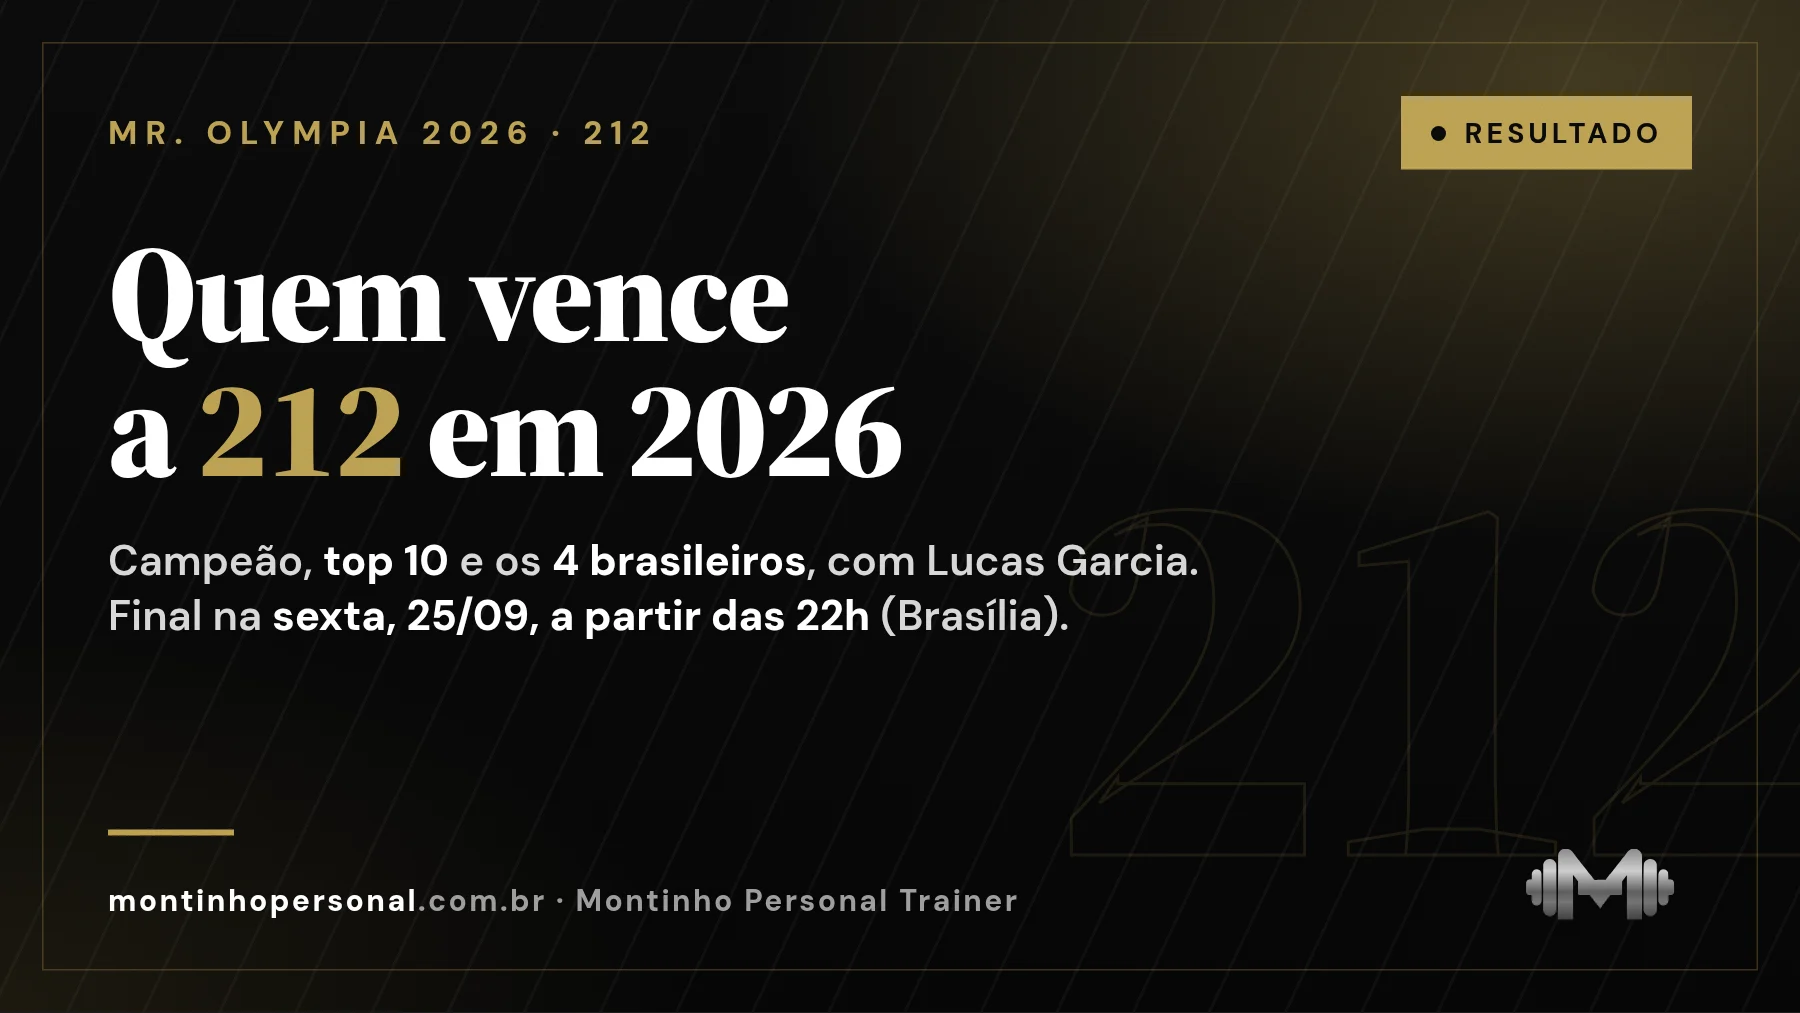
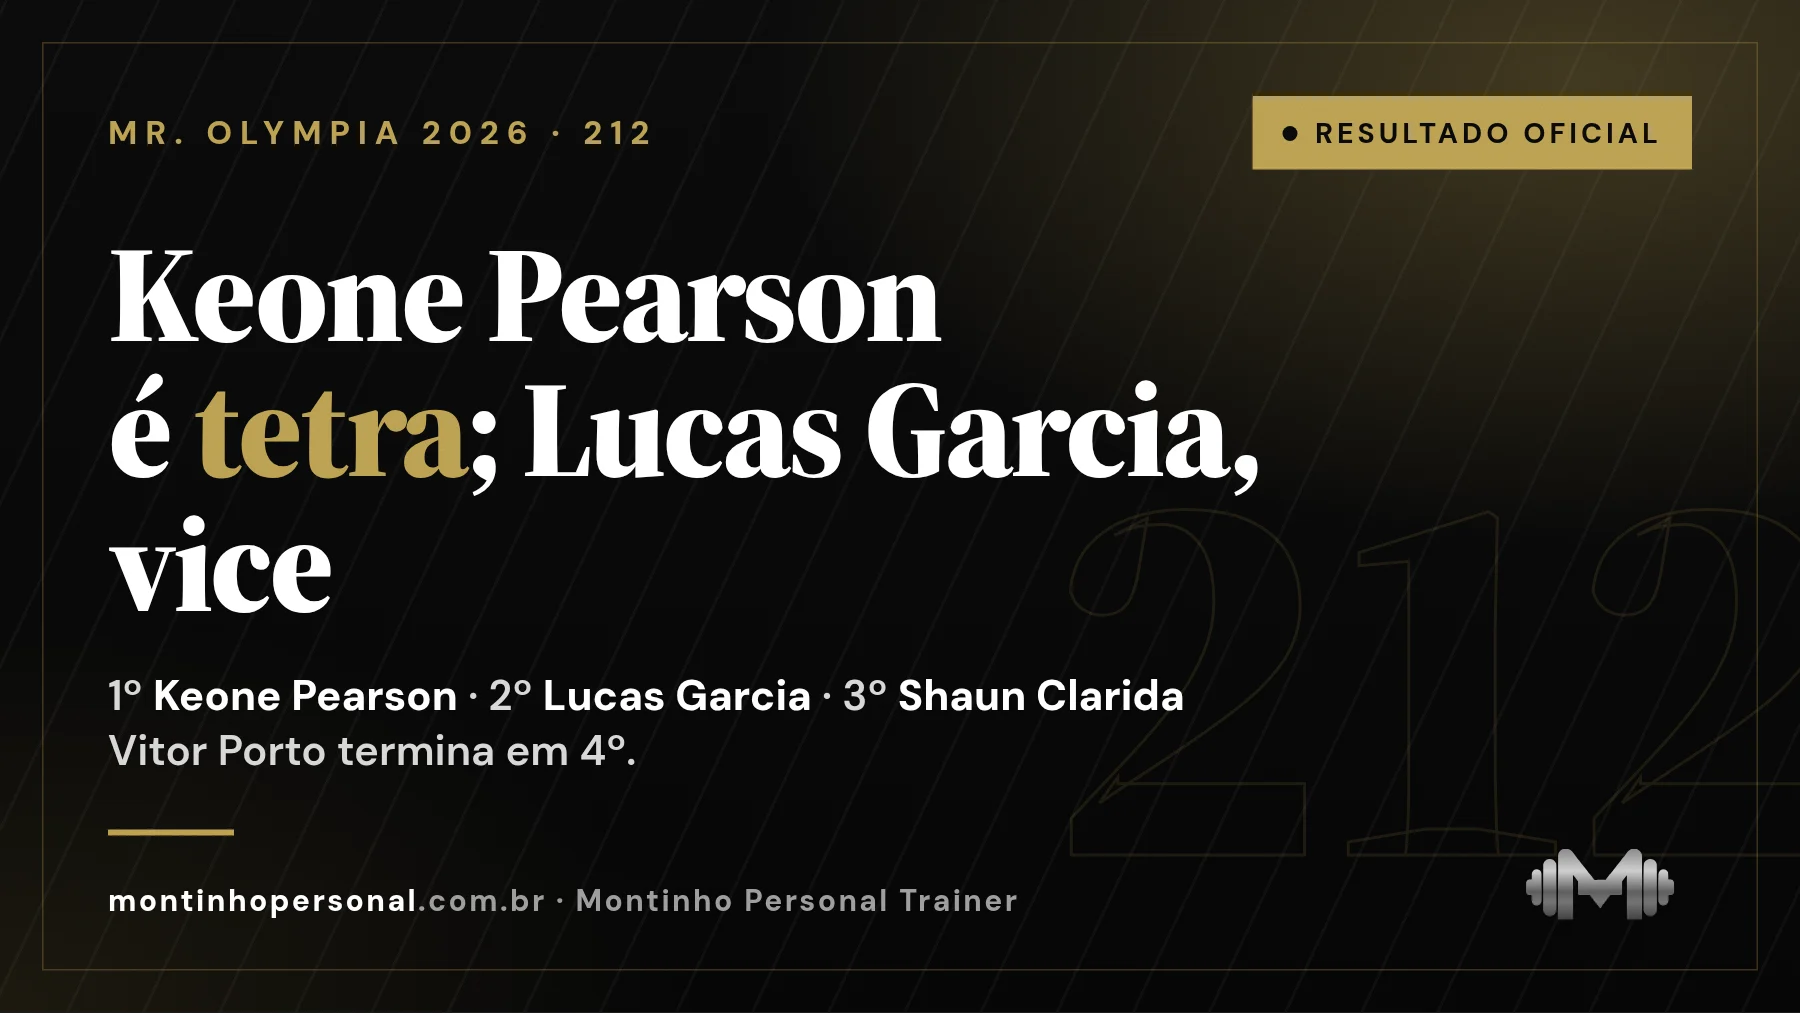
Olympia 2026: 212 top 5 (Lucas Garcia vice, Vitor Porto 4º) e Ms. Olympia (Leyvina 3ª)
Claude-Session: https://claude.ai/code/session_01FouRqAub4iiTyoNafYmiNy

diff --git a/lib/olympia-2026.ts b/lib/olympia-2026.ts
@@ -232,7 +232,7 @@ ${FONTES}`,
     readTime: "5 min",
     author: AUTOR,
     tags: ["Mr. Olympia 2026", "campeões", "resultados", "fisiculturismo", "Las Vegas"],
-    content: `<blockquote><p><strong>Já decididas: Women's Physique, 212 e Figure.</strong> As outras entram assim que o resultado oficial for confirmado. Última verificação: 26 de setembro de 2026, 0h (Brasília).</p></blockquote>
+    content: `<blockquote><p><strong>Já decididas: Women's Physique, 212, Figure e Ms. Olympia.</strong> As outras entram assim que o resultado oficial for confirmado. Última verificação: 26 de setembro de 2026, 2h (Brasília).</p></blockquote>
 <p>O Mr. Olympia 2026 acontece de 24 a 27 de setembro em Las Vegas, com 322 atletas em 12 categorias — 58 deles brasileiros. As finais são <strong>nesta sexta (25) a partir das 22h</strong> e <strong>no sábado (26) a partir das 23h</strong>, no horário de Brasília. Esta página reúne todos os campeões e é atualizada categoria por categoria, à medida que os resultados oficiais saem.</p>
 ${CAPA("quem-ganhou-mr-olympia-2026", "Capa: quem ganhou o Mr. Olympia 2026 — todos os campeões, categoria por categoria: Open, Classic Physique, Wellness, 212, Men's Physique, Bikini e mais")}
 
@@ -243,7 +243,7 @@ ${CAPA("quem-ganhou-mr-olympia-2026", "Capa: quem ganhou o Mr. Olympia 2026 — 
 <tr><td>212</td><td>Sex 25/09, 22h</td><td><strong>Keone Pearson (EUA)</strong></td><td>Keone Pearson (EUA)</td><td><a href="/blog/resultado-212-mr-olympia-2026">Ver resultado</a></td></tr>
 <tr><td>Figure</td><td>Sex 25/09, 22h</td><td><strong>Lola Montez</strong></td><td>Rhea Gayle (GBR)</td><td>Nesta página</td></tr>
 <tr><td>Women's Physique</td><td>Sex 25/09, 22h</td><td><strong>Natalia Abraham Coelho (EUA)</strong></td><td>Natalia Abraham Coelho (EUA)</td><td><a href="/blog/resultado-womens-physique-olympia-2026">Ver resultado</a></td></tr>
-<tr><td>Ms. Olympia</td><td>Sex 25/09, 22h</td><td>A definir</td><td>Andrea Shaw (EUA)</td><td>Nesta página</td></tr>
+<tr><td>Ms. Olympia</td><td>Sex 25/09, 22h</td><td><strong>Andrea Shaw (EUA)</strong></td><td>Andrea Shaw (EUA)</td><td>Nesta página</td></tr>
 <tr><td>Fitness</td><td>Sáb 26/09, 23h</td><td>A definir</td><td>Michelle Fredua-Mensah (GBR)</td><td>Nesta página</td></tr>
 <tr><td>Men's Physique</td><td>Sáb 26/09, 23h</td><td>A definir</td><td>Ryan Terry (GBR)</td><td><a href="/blog/resultado-mens-physique-olympia-2026">Ver resultado</a></td></tr>
 <tr><td>Bikini</td><td>Sáb 26/09, 23h</td><td>A definir</td><td>Maureen Blanquisco (PHI)</td><td><a href="/blog/resultado-bikini-olympia-2026">Ver resultado</a></td></tr>
@@ -481,12 +481,12 @@ ${FONTES}`,
   /* ───────────────── 7. RESULTADO 212 ───────────────── */
   {
     slug: "resultado-212-mr-olympia-2026",
-    title: "Keone Pearson é tetracampeão da 212 no Mr. Olympia 2026; veja os brasileiros",
-    metaTitle: "Resultado 212 Olympia 2026: Keone Pearson Tetra e Lucas Garcia",
+    title: "Keone Pearson é tetracampeão da 212 no Mr. Olympia 2026; Lucas Garcia é vice",
+    metaTitle: "Resultado 212 Olympia 2026: Keone Pearson Tetra; Lucas Garcia Vice",
     metaDescription:
-      "Keone Pearson venceu a 212 do Mr. Olympia 2026, o quarto título seguido. Lucas Garcia e Vitor Porto estiveram entre os finalistas; colocações a confirmar.",
+      "Keone Pearson venceu a 212 do Mr. Olympia 2026, o 4º título seguido. O brasileiro Lucas Garcia foi vice e Vitor Porto ficou em 4º. Veja o top 5.",
     excerpt:
-      "Keone Pearson venceu a 212 do Mr. Olympia 2026 e chegou ao quarto título seguido. Lucas Garcia e Vitor Porto estiveram entre os finalistas.",
+      "Keone Pearson venceu a 212 do Mr. Olympia 2026 e chegou ao quarto título seguido. Lucas Garcia foi vice-campeão e Vitor Porto terminou em 4º.",
     category: "Fisiculturismo",
     tipo: "noticia",
     date: DATA,
@@ -494,25 +494,25 @@ ${FONTES}`,
     readTime: "3 min",
     author: AUTOR,
     tags: ["Mr. Olympia 2026", "212", "Lucas Garcia", "resultado", "fisiculturismo"],
-    content: `<blockquote><p><strong>Campeão oficial definido; a colocação exata dos brasileiros ainda está sendo confirmada.</strong> Última verificação: 26 de setembro de 2026, 0h (Brasília).</p></blockquote>
-<p><strong>Keone Pearson (EUA) venceu a 212 do Mr. Olympia 2026</strong>, na noite de sexta-feira, 25 de setembro, em Las Vegas, e chegou ao quarto título seguido. Os brasileiros <strong>Lucas Garcia</strong> e <strong>Vitor Porto</strong> estiveram entre os finalistas, ao lado de Shaun Clarida e Nihat Kaya. A colocação exata de cada um entra aqui assim que a classificação oficial for confirmada.</p>
-${CAPA("resultado-212-mr-olympia-2026", "Capa: resultado da 212 do Mr. Olympia 2026 — Keone Pearson defende o título e Lucas Garcia lidera os quatro brasileiros; final na sexta às 22h de Brasília")}
+    content: `<blockquote><p><strong>Resultado oficial.</strong> Última verificação: 26 de setembro de 2026, 2h (Brasília).</p></blockquote>
+<p><strong>Keone Pearson (EUA) venceu a 212 do Mr. Olympia 2026</strong>, na noite de sexta-feira, 25 de setembro, em Las Vegas, e chegou ao quarto título seguido. O brasileiro <strong>Lucas Garcia foi vice-campeão</strong>, subindo um degrau em relação a 2025, e <strong>Vitor Porto terminou em 4º</strong>. Shaun Clarida ficou em 3º e Nihat Kaya em 5º.</p>
+${CAPA("resultado-212-mr-olympia-2026", "Capa: Keone Pearson é tetracampeão da 212 no Mr. Olympia 2026; o brasileiro Lucas Garcia é vice, Shaun Clarida é 3º e Vitor Porto 4º")}
 
 <h2 id="resultado">Resultado 212 Olympia 2026</h2>
-<table><thead><tr><th>Posição</th><th>Atleta</th><th>País</th></tr></thead><tbody><tr><td>1º</td><td>Keone Pearson</td><td>EUA</td></tr><tr><td>2º</td><td>A confirmar</td><td>—</td></tr><tr><td>3º</td><td>A confirmar</td><td>—</td></tr><tr><td>4º</td><td>A confirmar</td><td>—</td></tr><tr><td>5º</td><td>A confirmar</td><td>—</td></tr></tbody></table>
-<p><em>Campeão confirmado por CNN Brasil e Fitness Volt. As fontes publicadas até agora divergem sobre a ordem do 2º ao 5º lugar, por isso essas posições ficam em branco até a confirmação.</em></p>
+<table><thead><tr><th>Posição</th><th>Atleta</th><th>País</th></tr></thead><tbody><tr><td>1º</td><td>Keone Pearson</td><td>EUA</td></tr><tr><td>2º</td><td>Lucas Garcia</td><td>Brasil</td></tr><tr><td>3º</td><td>Shaun Clarida</td><td>EUA</td></tr><tr><td>4º</td><td>Vitor Porto</td><td>Brasil</td></tr><tr><td>5º</td><td>Nihat Kaya</td><td>Turquia</td></tr></tbody></table>
+<p><em>Top 5 confirmado por Fitness Volt e NSC Total; campeão também pela CNN Brasil. Do 6º lugar em diante, a classificação entra quando for publicada.</em></p>
 
 <h2>Como ficaram os brasileiros na 212?</h2>
 <table><thead><tr><th>Atleta</th><th>Resultado</th><th>Status</th></tr></thead><tbody>
-<tr><td>Lucas Garcia</td><td>Finalista (posição a confirmar)</td><td>Competiu</td></tr>
-<tr><td>Vitor Porto</td><td>Finalista (posição a confirmar)</td><td>Competiu</td></tr>
+<tr><td>Lucas Garcia</td><td>2º lugar</td><td>Resultado oficial</td></tr>
+<tr><td>Vitor Porto</td><td>4º lugar</td><td>Resultado oficial</td></tr>
 <tr><td>Felipe Moraes</td><td>A confirmar</td><td>Competiu</td></tr>
 <tr><td>Andrey Pereira</td><td>A confirmar</td><td>Competiu</td></tr>
 </tbody></table>
 <p>Os quatro aparecem no roster oficial da IFBB Pro League representando o Brasil (Vitor Porto está inscrito como Vitor Alves Porto de Oliveira). Como foram os brasileiros das outras categorias: <a href="/blog/brasileiros-mr-olympia-2026">brasileiros no Mr. Olympia 2026</a>.</p>
 
 <h2>Em que posição Lucas Garcia ficou?</h2>
-<p><strong>Lucas Garcia esteve entre os finalistas; a posição exata ainda está sendo confirmada</strong> (as primeiras fontes divergem). Paulista, ele chegou como o brasileiro mais bem colocado da categoria: em 2025, na estreia no Olympia, terminou em <strong>terceiro</strong>, atrás de Keone Pearson e Shaun Clarida, com Nihat Kaya (Turquia) em quarto e Courage Opara (EUA) em quinto. A colocação de 2026 entra aqui assim que for confirmada.</p>
+<p><strong>Lucas Garcia foi vice-campeão</strong>, o melhor resultado de um brasileiro na história da 212, igualando o 2º lugar de Eduardo Corrêa em 2014. Levou US$ 20 mil. Paulista, ele chegou como o brasileiro mais bem colocado da categoria: em 2025, na estreia no Olympia, terminou em <strong>terceiro</strong>, atrás de Keone Pearson e Shaun Clarida, com Nihat Kaya (Turquia) em quarto e Courage Opara (EUA) em quinto. Em 2026, subiu para o 2º lugar.</p>
 
 <h2>Quem ganhou a 212 Olympia 2026?</h2>
 <p><strong>Keone Pearson</strong>, que venceu o pose down final e chegou ao quarto título seguido (2023, 2024, 2025 e 2026). Os favoritos antes da final eram:</p>
@@ -551,7 +551,7 @@ ${CTA_MASSA}
 ${FONTES}`,
     faq: [
       { question: "Quem ganhou a 212 do Mr. Olympia 2026?", answer: "Keone Pearson (EUA), que chegou ao quarto título seguido na categoria." },
-      { question: "Em que posição Lucas Garcia ficou na 212?", answer: "Lucas Garcia esteve entre os finalistas de 2026; a posição exata ainda está sendo confirmada. Em 2025, na estreia no Olympia, ele ficou em terceiro." },
+      { question: "Em que posição Lucas Garcia ficou na 212?", answer: "Em segundo: Lucas Garcia foi vice-campeão da 212 no Mr. Olympia 2026, atrás de Keone Pearson. Em 2025, na estreia, tinha ficado em terceiro." },
       { question: "Quantos brasileiros competem na 212 do Olympia 2026?", answer: "Quatro, pelo roster oficial da IFBB Pro League: Lucas Garcia, Vitor Porto, Felipe Moraes e Andrey Pereira." },
       { question: "Qual é o limite de peso da 212?", answer: "212 libras, cerca de 96,2 kg, na pesagem oficial, para qualquer altura." },
     ],

diff --git a/lib/olympia-brasil.ts b/lib/olympia-brasil.ts
@@ -67,7 +67,7 @@ export const CATEGORIAS: CategoriaOlympia[] = [
   { id: "212", nome: "212", dia: "sexta", previas: "sextaPrevias", final: "sextaFinais", artigo: "resultado-212-mr-olympia-2026", temBrasileiro: true, previasConcluidas: true, resultadoOficial: true, campeao: "Keone Pearson" },
   { id: "wellness", nome: "Wellness", dia: "sexta", previas: "sextaPrevias", final: "sextaFinais", artigo: "resultado-wellness-mr-olympia-2026", temBrasileiro: true },
   { id: "womens-physique", nome: "Women's Physique", dia: "sexta", previas: "sextaPrevias", final: "sextaFinais", artigo: "resultado-womens-physique-olympia-2026", temBrasileiro: true, previasConcluidas: true, resultadoOficial: true, campeao: "Natalia Abraham Coelho" },
-  { id: "ms-olympia", nome: "Ms. Olympia", dia: "sexta", previas: "sextaPrevias", final: "sextaFinais", temBrasileiro: true },
+  { id: "ms-olympia", nome: "Ms. Olympia", dia: "sexta", previas: "sextaPrevias", final: "sextaFinais", temBrasileiro: true, previasConcluidas: true, resultadoOficial: true, campeao: "Andrea Shaw" },
   { id: "figure", nome: "Figure", dia: "sexta", previas: "sextaPrevias", final: "sextaFinais", previasConcluidas: true, resultadoOficial: true, campeao: "Lola Montez" },
   // O Open tem as prévias na sessão de sexta à noite e a final no sábado.
   { id: "open", nome: "Open (Mr. Olympia)", dia: "sabado", previas: "sextaFinais", final: "sabadoFinais", artigo: "resultado-mr-olympia-open-2026", temBrasileiro: true },
@@ -193,8 +193,8 @@ export const ATLETAS_BRASIL: AtletaBrasil[] = [
   a("Fábio Júnio", "classic"),
   a("Gabriel Zancanelli", "classic"),
   a("Matheus Menegate", "classic"),
-  a("Lucas Garcia", "212", "Brasil", "3º em 2025"),
-  a("Vitor Porto", "212"),
+  { ...a("Lucas Garcia", "212", "Brasil", "3º em 2025"), resultado: "2º lugar" },
+  { ...a("Vitor Porto", "212"), resultado: "4º lugar" },
   a("Felipe Moraes", "212"),
   a("Andrey Pereira", "212"),
   a("Eduarda Bezerra", "wellness", "Brasil", "Atual campeã"),
@@ -205,7 +205,7 @@ export const ATLETAS_BRASIL: AtletaBrasil[] = [
   a("Jessica Macedo", "womens-physique"),
   a("Naiana Nana", "womens-physique"),
   a("Amanda de Carvalho Machado", "womens-physique", "EUA"),
-  a("Leyvina Barros", "ms-olympia", "Brasil", "Top 3 em 2025"),
+  { ...a("Leyvina Barros", "ms-olympia", "Brasil", "Top 3 em 2025"), resultado: "3º lugar" },
   a("Barbara Moojen", "ms-olympia"),
   // Sábado (Open: prévias na sexta à noite)
   a("Leandro Peres", "open", "Brasil", "Único brasileiro no Open"),
